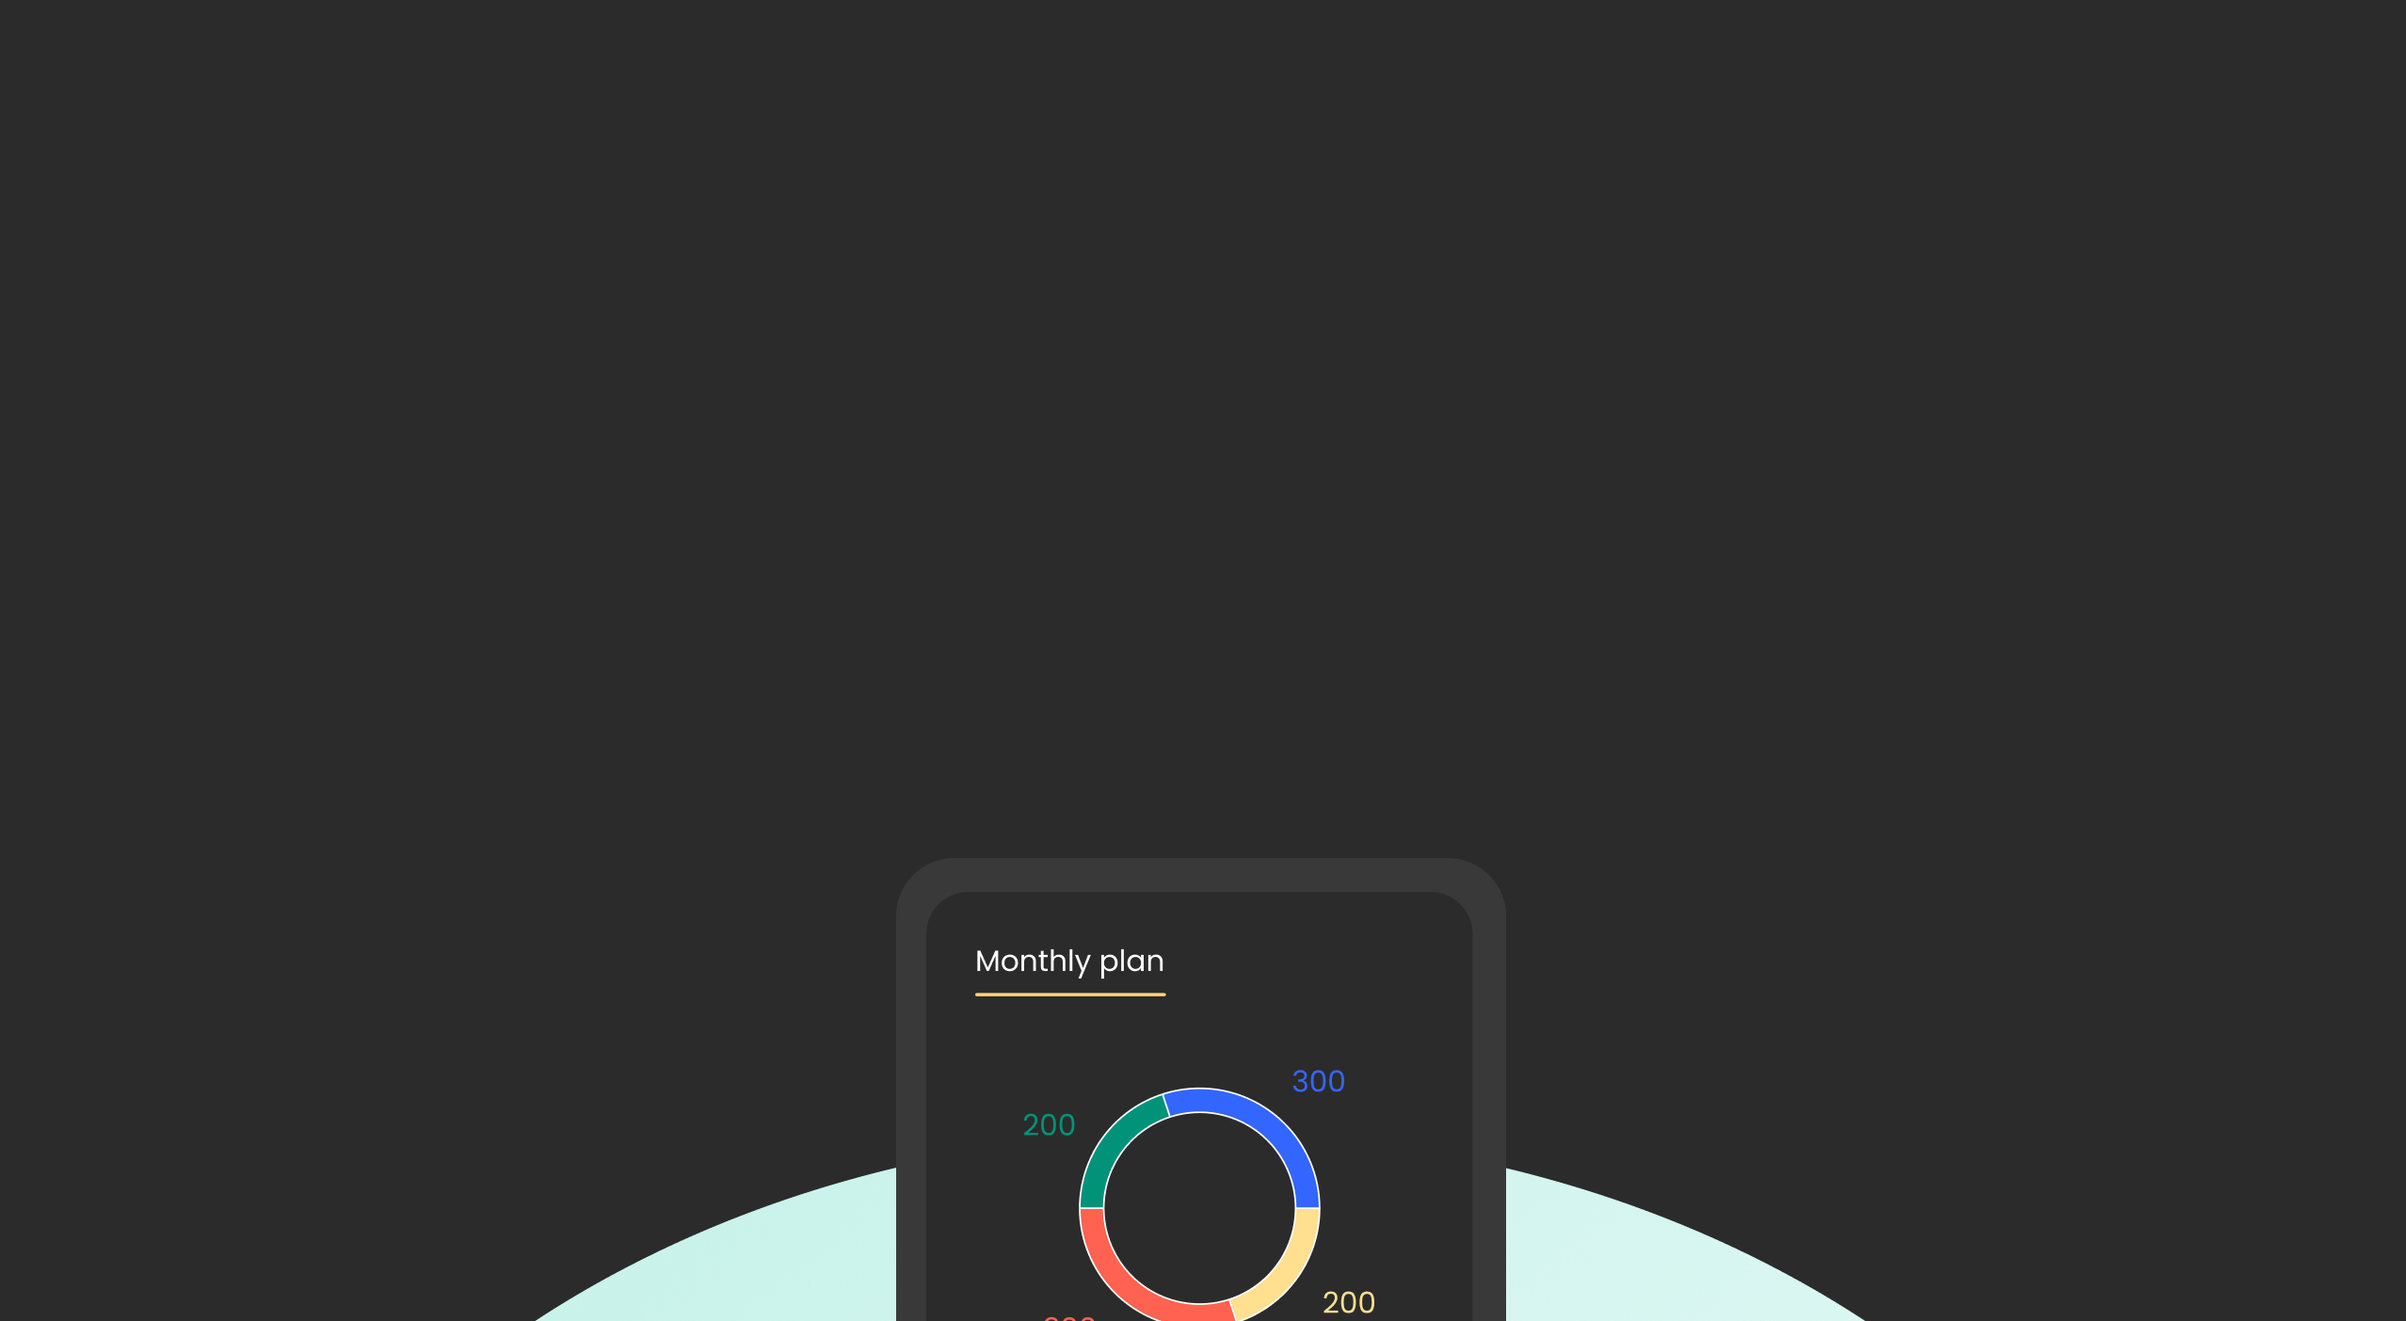
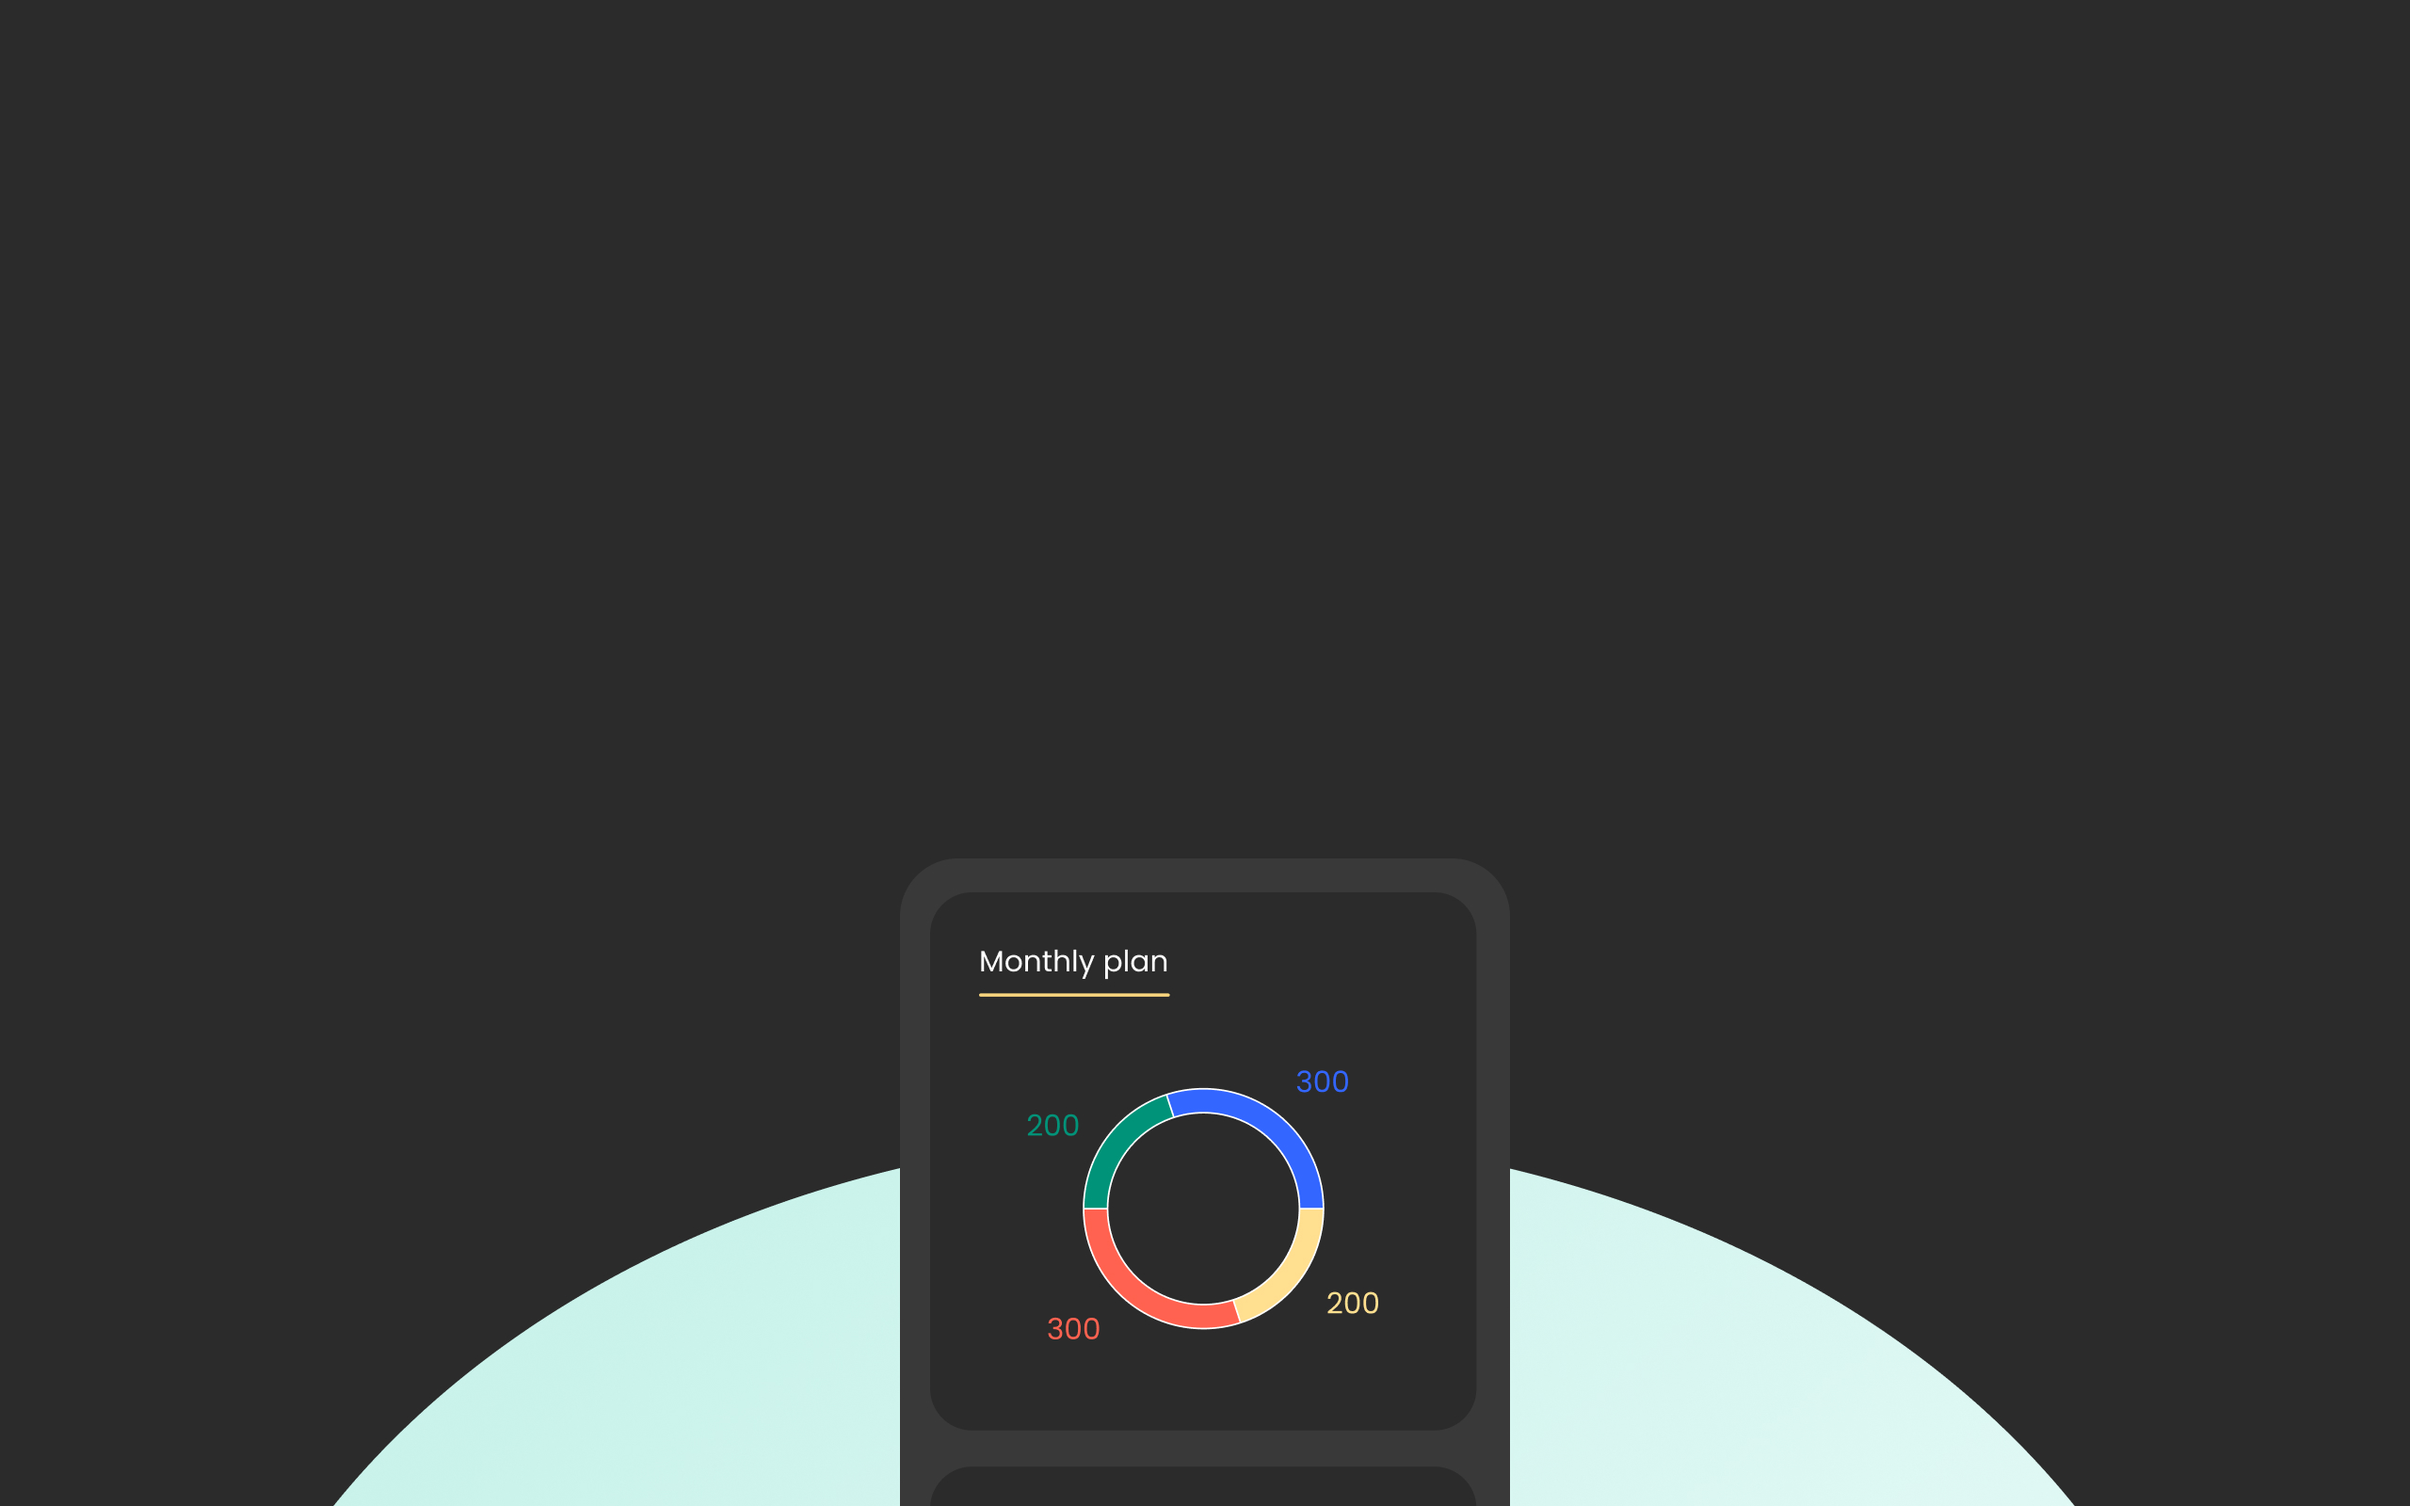
Corrigiendo imagen principal de fondo

diff --git a/src/app/features/landing/landing.component.scss b/src/app/features/landing/landing.component.scss
@@ -70,11 +70,11 @@ opacity: 0.4;
 .page-image{
     display: inline-flex;
     justify-content: center;
-    height: 15em;
+    height: 18em;
     background-image: url("/assets/image/Image-landig-icono.png");
     background-repeat: no-repeat;
-    background-position: center -25em;
-    background-size: 50em 42em;
+    background-position: center -20em;
+    background-size: 50em 40em;
    
 }
 
